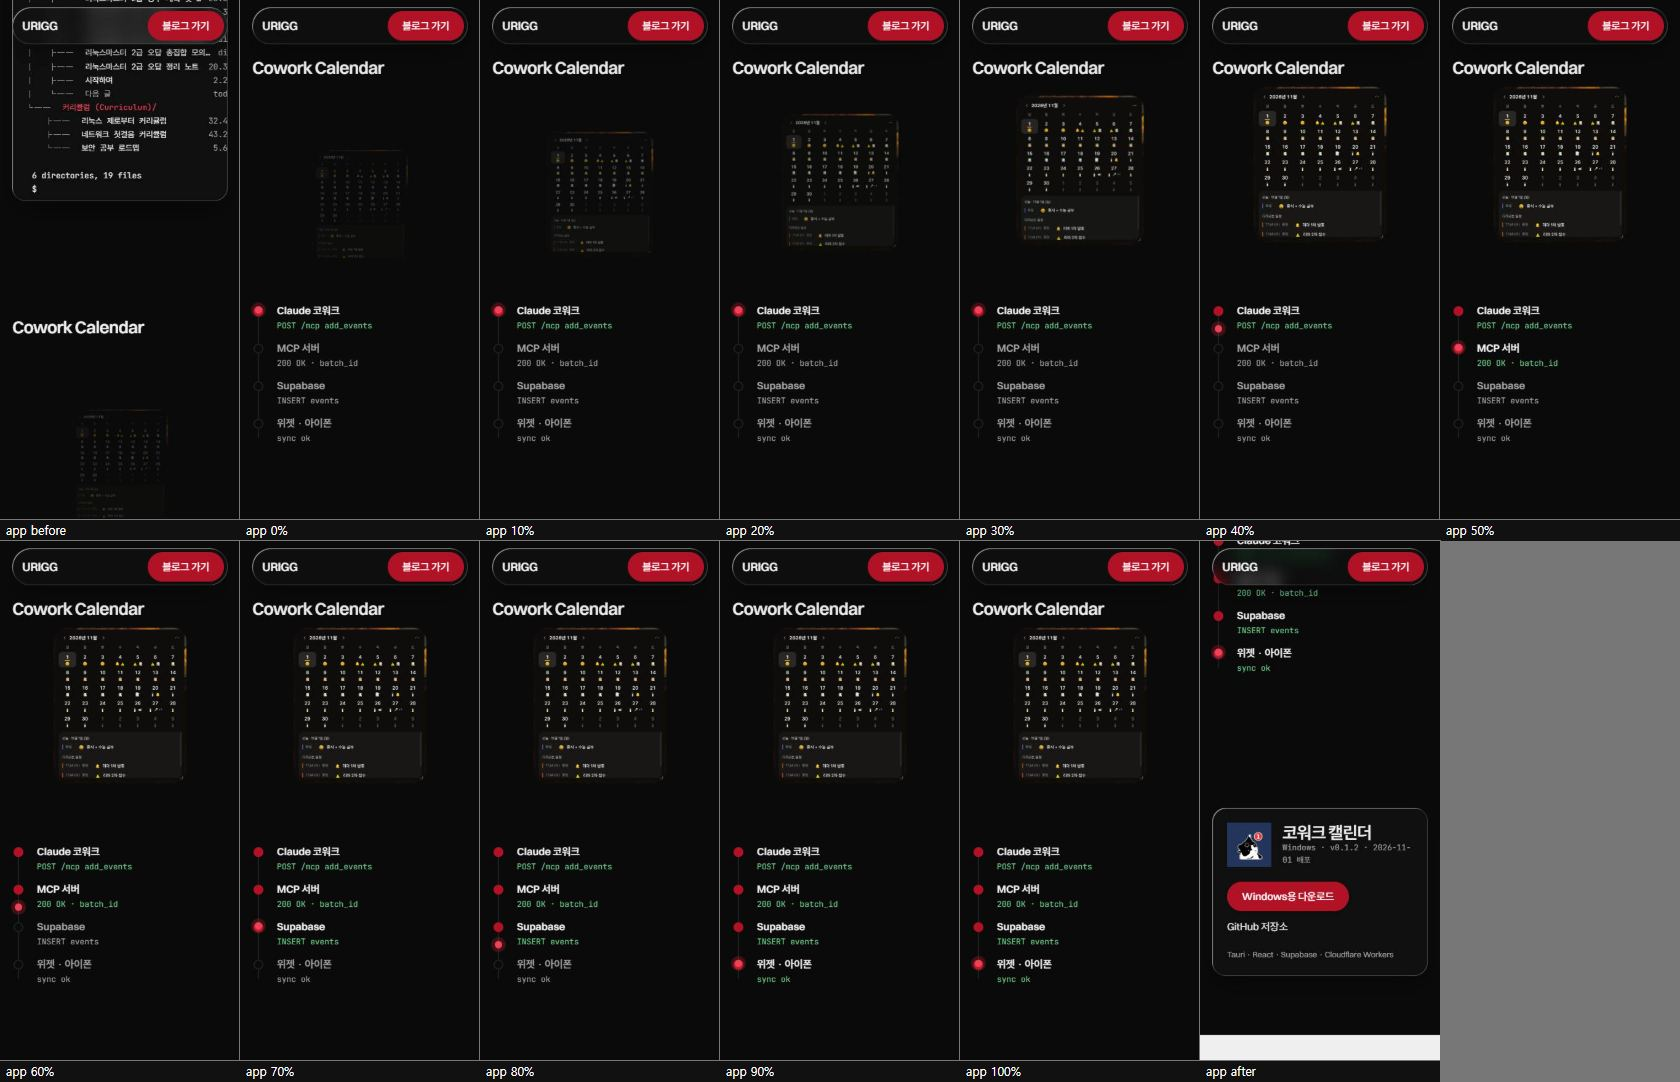
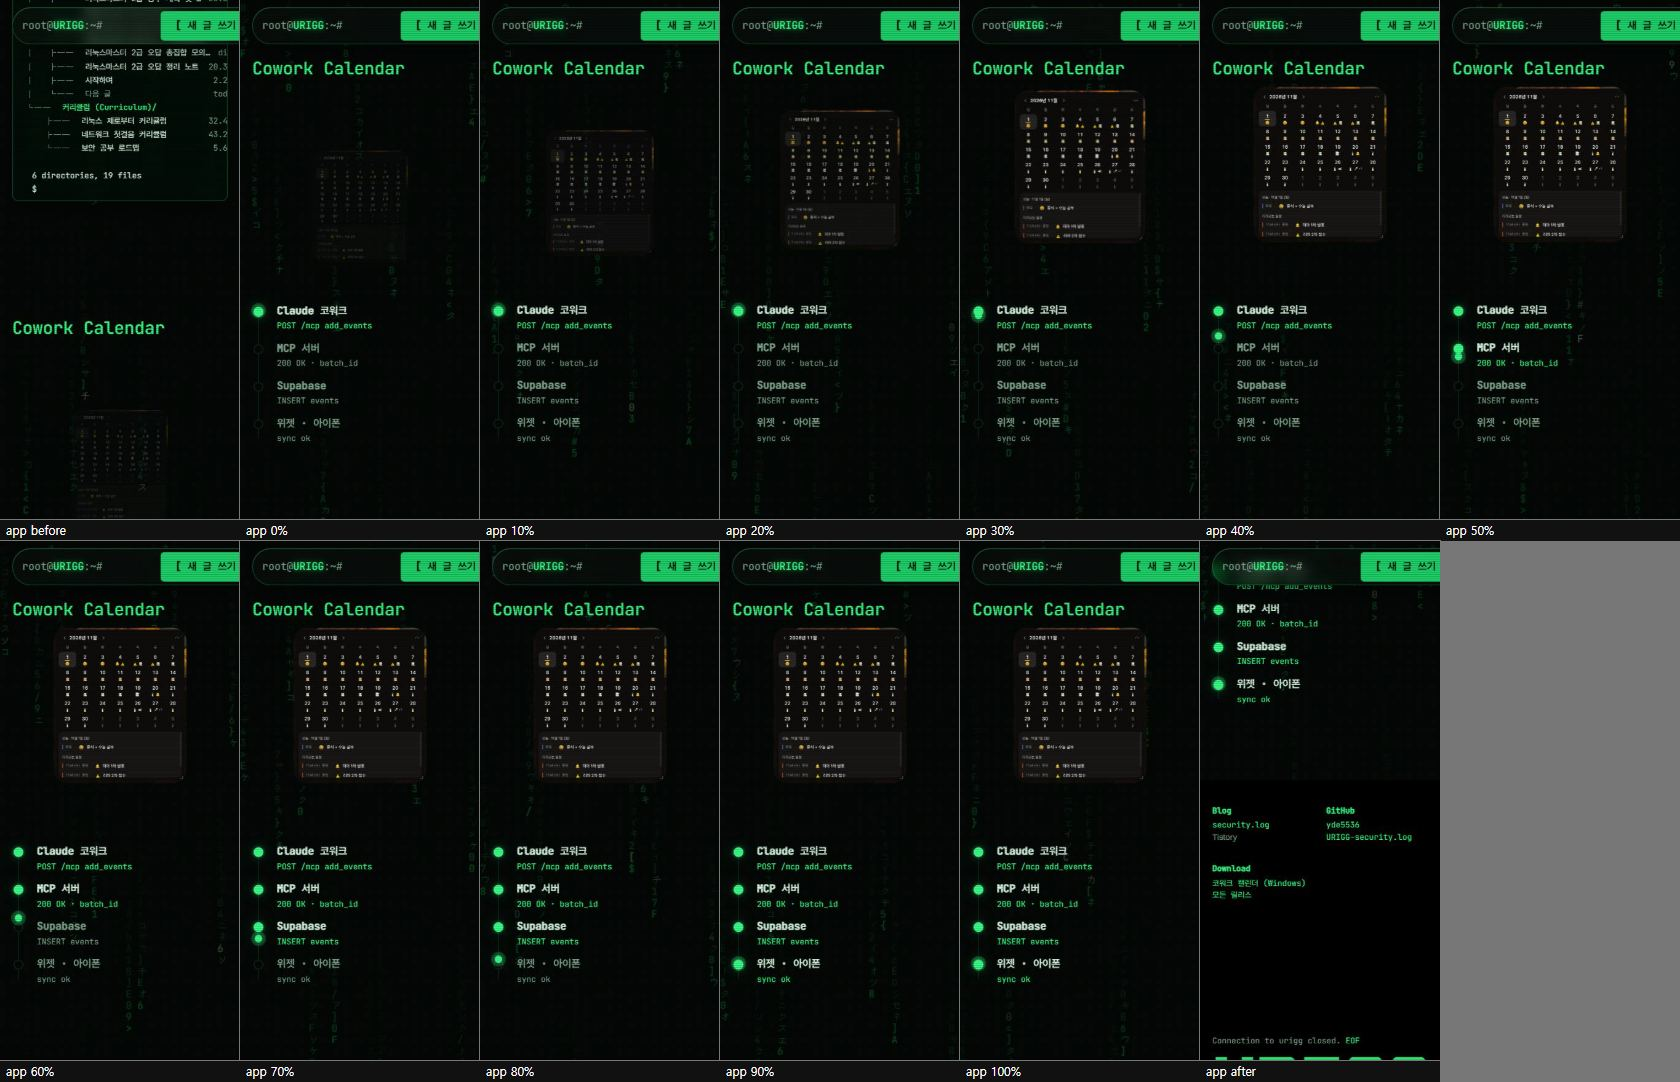
Add a hacker terminal theme
Green phosphor text with glow, a blinking cursor on the title, code rain
behind the page at 12 fps (paused when the tab is hidden), faint CRT
scan lines, terminal window bars on the tiles, bracketed buttons, a
prompt-style logo and a black terminal footer. Kept in its own
theme-hacker.css and rain.js so it can be switched off. README updated
for the hub layout and the theme files.

diff --git a/site/css/theme-hacker.css b/site/css/theme-hacker.css
@@ -1,0 +1,119 @@
+/* 해커 터미널 테마 — 초록 형광 글씨, CRT 주사선, 터미널 창 타일.
+   이 파일과 js/rain.js를 빼면 검정·크림슨 버전으로 돌아간다.
+   taste-skill-ignore: 사용자 요청 해커(터미널) 느낌 — 고정폭 글꼴, 빛번짐, 주사선은 의도한 것 */
+
+:root {
+  --bg: #030805;
+  --surface: #07120b;
+  --surface-2: #0d1f14;
+  --ink: #d6f5df;
+  --muted: #7fa58b;
+  --accent: #1fd16a;
+  --accent-press: #17a854;
+  --accent-ink: #021006;
+  --accent-text: #39ff88;
+  --ok: #39ff88;
+  --alert: #ff4d5e;
+  --mark-1: #1fd16a;   --mark-1-ink: #021006;
+  --mark-2: #d6f5df;   --mark-2-ink: #021006;
+  --mark-3: #24533a;   --mark-3-ink: #d6f5df;
+  --glow: 0 0 6px rgba(57, 255, 136, 0.55), 0 0 18px rgba(57, 255, 136, 0.25); /* taste-skill-ignore */
+  --glass-tint-strong: rgba(3, 14, 7, 0.62);
+  --glass-edge: inset 0 0 0 1px rgba(57, 255, 136, 0.28), inset 0 1px 0 rgba(160, 255, 200, 0.25); /* taste-skill-ignore */
+}
+
+body { background: var(--bg); }
+::selection { background: var(--accent-text); color: var(--accent-ink); }
+
+/* 매트릭스 코드 비 (rain.js가 그린다) */
+.rain { position: fixed; inset: 0; z-index: -2; width: 100%; height: 100%; opacity: 0.32; pointer-events: none; }
+
+/* CRT 주사선과 가장자리 어둠 */
+body::after {
+  content: ''; position: fixed; inset: 0; z-index: 60; pointer-events: none;
+  background: repeating-linear-gradient(0deg, rgba(0, 0, 0, 0.22) 0 1px, transparent 1px 3px); /* taste-skill-ignore */
+  mix-blend-mode: multiply;
+}
+
+/* 제목·라벨은 터미널 글꼴과 초록 빛번짐 */
+h1, h2, .top__mark, .btn, .tile__more, .dash__more, .repo__count, .route .hop b {
+  font-family: var(--mono); /* taste-skill-ignore */
+  letter-spacing: -0.01em;
+}
+.dash__title { color: var(--accent-text); text-shadow: var(--glow); font-weight: 500; letter-spacing: -0.04em; } /* taste-skill-ignore */
+.dash__title::after { content: '_'; animation: blink 1s steps(1) infinite; }
+h2 { color: var(--accent-text); font-weight: 500; }
+.tile__head h2::before { content: '> '; color: var(--muted); }
+.repo__count b, .stamp { text-shadow: var(--glow); } /* taste-skill-ignore */
+
+/* 상단 바: 프롬프트 모양 */
+/* 로고 글자 "URIGG"는 그대로 두고 앞에 프롬프트, 뒤에 깜빡이는 커서 */
+.top__mark { color: var(--accent-text); font-weight: 500; font-size: var(--step-body); text-shadow: var(--glow); } /* taste-skill-ignore */
+.top__mark::before { content: 'root@'; color: var(--muted); font-weight: 400; text-shadow: none; }
+.top__mark::after { content: ':~#'; color: var(--muted); font-weight: 400; text-shadow: none; }
+.top__nav a { font-family: var(--mono); font-size: var(--step-small); color: var(--muted); } /* taste-skill-ignore */
+.top__nav a:hover { color: var(--accent-text); }
+.top__nav a::before { content: './'; }
+
+/* 버튼: [ 대괄호 ] 터미널 버튼 */
+.btn { border-radius: 6px; background: var(--accent); color: var(--accent-ink); font-weight: 600; }
+.btn::before { content: '[ '; }
+.btn::after { content: ' ]'; }
+.btn:hover { background: var(--accent-text); box-shadow: var(--glow); } /* taste-skill-ignore */
+
+/* 타일 = 터미널 창 */
+.glass, .tile { border-radius: 10px; }
+.tile { padding-top: 46px; position: relative; }
+.tile::before {
+  content: '● ● ●  ' attr(data-file); position: absolute; left: 0; right: 0; top: 0; height: 30px;
+  padding: 0 14px; display: flex; align-items: center; font-family: var(--mono); font-size: 0.75rem; /* taste-skill-ignore */
+  color: var(--muted); background: rgba(57, 255, 136, 0.06); border-bottom: 1px solid rgba(57, 255, 136, 0.16);
+}
+
+/* 오늘 일정 */
+.stamp { color: var(--alert); }
+.is-clear .stamp { color: var(--ok); }
+.agenda__row span { color: var(--ink); }
+.rd::after { background: #123320; }
+.unlock input { background: #04140a; color: var(--accent-text); font-family: var(--mono); box-shadow: inset 0 0 0 1px rgba(57, 255, 136, 0.25); } /* taste-skill-ignore */
+.unlock input::placeholder { color: var(--muted); }
+
+/* 바로가기 */
+.alias__list code::before { content: '$ '; color: var(--muted); }
+.alias__list a:hover, .alias__list a:focus-visible { background: rgba(57, 255, 136, 0.1); }
+
+/* 진행도 · 로그 */
+.progress__cells { text-shadow: var(--glow); } /* taste-skill-ignore */
+.tail li:first-child { color: var(--accent-text); }
+.card__meta b { color: var(--accent-text); }
+.mark--1 { box-shadow: none; }
+
+/* 아래 장면들 */
+.term__row--dir { color: var(--accent-text); }
+.route__packet { background: var(--accent-text); box-shadow: 0 0 0 6px rgba(57, 255, 136, 0.22), var(--glow); } /* taste-skill-ignore */
+.hop.is-on::before { background: var(--accent-text); box-shadow: var(--glow); } /* taste-skill-ignore */
+.log__bar span { background: var(--accent-text); }
+
+/* 맺음: 흰 면 대신 검은 터미널 */
+.end { background: #000; color: var(--ink); }
+.end__cols p { color: var(--muted); }
+.end__cols p:first-child, .end__cols a { color: var(--accent-text); font-family: var(--mono); } /* taste-skill-ignore */
+.end__eof { color: var(--muted); }
+.end__eof span { color: var(--accent-text); }
+.end__word text { fill: var(--accent-text); fill-opacity: 0.9; font-family: var(--mono); } /* taste-skill-ignore */
+.end__legal { color: var(--muted); }
+
+@media (prefers-reduced-motion: reduce) {
+  .dash__title::after { animation: none; }
+}
+
+/* 휴대폰: 고정폭 글꼴은 넓으니 제목을 줄이고, 칸이 화면 밖으로 밀리지 않게 */
+.dash, .dash__grid > * { min-width: 0; }
+@media (max-width: 720px) {
+  .dash__title { font-size: 7.4vw; }
+  .dash .lens { width: 76px; left: 52%; top: -10px; }
+  .top .btn { padding: 0 16px; }
+  .top .btn::before, .top .btn::after { content: none; }
+  .tile--today .tile__head { flex-wrap: wrap; row-gap: 8px; }
+  .tile--today .stamp { margin-left: 0; }
+}

diff --git a/site/index.html b/site/index.html
@@ -8,7 +8,7 @@
   <meta property="og:title" content="URIGG — security.log">
   <meta property="og:description" content="Security, logged. 정보보안 공부 기록과 직접 만든 도구들.">
   <meta property="og:image" content="/images/logo-round-1400.png">
-  <meta name="theme-color" content="#0a0a0a">
+  <meta name="theme-color" content="#030805">
   <link rel="icon" type="image/png" sizes="32x32" href="/images/favicon-32.png">
   <link rel="icon" type="image/png" sizes="512x512" href="/images/favicon-512.png">
   <link rel="apple-touch-icon" href="/images/favicon-180.png">
@@ -23,12 +23,15 @@
   <link rel="stylesheet" href="css/base.css">
   <link rel="stylesheet" href="css/scenes.css">
   <link rel="stylesheet" href="css/theme-glass.css">
+  <link rel="stylesheet" href="css/theme-hacker.css">
   <script>document.documentElement.classList.add('js')</script>
   <script src="js/glass.js" defer></script>
   <script src="js/main.js" defer></script>
   <script src="js/scenes.js" defer></script>
+  <script src="js/rain.js" defer></script>
 </head>
 <body>
+  <canvas class="rain" aria-hidden="true"></canvas>
   <header class="top">
     <a class="top__mark" href="#top" aria-label="URIGG 처음으로">URIGG</a>
     <nav class="top__nav" aria-label="섹션">
@@ -56,7 +59,7 @@
 
       <div class="dash__grid">
         <!-- 오늘 일정: 접근 키를 넣으면 기밀이 해제되듯 드러난다 -->
-        <article class="tile tile--today glass glass--dark" aria-labelledby="today-title">
+        <article class="tile tile--today glass glass--dark" data-file="today.sh" aria-labelledby="today-title">
           <div class="tile__head">
             <h2 id="today-title">Today</h2>
             <p class="today__date" id="today-date"></p>
@@ -77,7 +80,7 @@
         </article>
 
         <!-- 최근 글 -->
-        <article class="tile tile--log glass glass--dark" aria-labelledby="latest-title">
+        <article class="tile tile--log glass glass--dark" data-file="security.log" aria-labelledby="latest-title">
           <div class="tile__head"><h2 id="latest-title">Log</h2><a class="link tile__more" href="#log">카드로 보기 ↓</a></div>
           <div class="term" aria-label="최신 글">
             <p class="term__prompt"><span class="term__user">urigg@security</span>:~$ tail -n 5 security.log<span class="caret" aria-hidden="true"></span></p>
@@ -86,7 +89,7 @@
         </article>
 
         <!-- 바로가기 -->
-        <nav class="tile tile--alias glass glass--dark" aria-labelledby="alias-title">
+        <nav class="tile tile--alias glass glass--dark" data-file="aliases" aria-labelledby="alias-title">
           <div class="tile__head"><h2 id="alias-title">Shortcuts</h2></div>
           <ul class="alias__list">
             <li><a href="https://urigg-security.tistory.com/manage/newpost" target="_blank" rel="noopener"><code>write</code><span>새 글 쓰기</span></a></li>
@@ -101,13 +104,13 @@
         </nav>
 
         <!-- 공부 진행도 -->
-        <article class="tile tile--progress glass glass--dark" aria-labelledby="progress-title">
+        <article class="tile tile--progress glass glass--dark" data-file="progress.md" aria-labelledby="progress-title">
           <div class="tile__head"><h2 id="progress-title">Progress</h2><a class="link tile__more" href="#repo">tree로 보기 ↓</a></div>
           <ul class="progress" id="progress" aria-label="시리즈별 진행도"></ul>
         </article>
 
         <!-- 캘린더 앱 -->
-        <article class="tile tile--app glass glass--dark" aria-labelledby="dash-app-title">
+        <article class="tile tile--app glass glass--dark" data-file="cowork-calendar.exe" aria-labelledby="dash-app-title">
           <div class="tile__head"><h2 id="dash-app-title">Calendar</h2><a class="link tile__more" href="#app">경로 보기 ↓</a></div>
           <div class="tile__app">
             <img src="images/calendar-icon.png" alt="" width="48" height="48">

diff --git a/site/js/rain.js b/site/js/rain.js
@@ -1,0 +1,42 @@
+// 배경의 초록 코드 비. 성능을 위해 초당 12장만 그리고, 탭이 숨겨지면 멈춘다.
+(() => {
+  const canvas = document.querySelector('.rain');
+  if (!canvas || matchMedia('(prefers-reduced-motion: reduce)').matches) return;
+  const ctx = canvas.getContext('2d', { alpha: false });
+  const CHARS = '01アイウエオカキクケコサシスセソタチツテトナニヌネノ0123456789ABCDEF<>/{}[]$#';
+  const SIZE = 16, FPS = 12;
+  let cols = [], last = 0, running = true;
+
+  const resize = () => {
+    canvas.width = innerWidth;
+    canvas.height = innerHeight;
+    cols = Array.from({ length: Math.ceil(innerWidth / SIZE) }, () => Math.random() * -40);
+    ctx.fillStyle = '#030805';
+    ctx.fillRect(0, 0, canvas.width, canvas.height);
+  };
+
+  const draw = (t) => {
+    if (!running) return;
+    requestAnimationFrame(draw);
+    if (t - last < 1000 / FPS) return;
+    last = t;
+    // 이전 글자를 조금씩 어둡게 덮어 꼬리를 만든다
+    ctx.fillStyle = 'rgba(3, 8, 5, 0.18)';
+    ctx.fillRect(0, 0, canvas.width, canvas.height);
+    ctx.font = `${SIZE - 2}px "JetBrains Mono", monospace`;
+    cols.forEach((y, i) => {
+      const ch = CHARS[(Math.random() * CHARS.length) | 0];
+      ctx.fillStyle = Math.random() < 0.06 ? '#c8ffdc' : '#1fd16a';
+      ctx.fillText(ch, i * SIZE, y * SIZE);
+      cols[i] = y * SIZE > canvas.height && Math.random() > 0.97 ? 0 : y + 1;
+    });
+  };
+
+  document.addEventListener('visibilitychange', () => {
+    running = !document.hidden;
+    if (running) requestAnimationFrame(draw);
+  });
+  addEventListener('resize', resize);
+  resize();
+  requestAnimationFrame(draw);
+})();

diff --git a/README.md b/README.md
@@ -1,26 +1,31 @@
 # URIGG — security.log
 
-URIGG의 개인 웹사이트. Cloudflare Pages(`*.pages.dev`)에 배포한다.
+URIGG의 개인 거점 사이트. 나를 소개하는 페이지가 아니라 내가 쓰는 대시보드다. Cloudflare Pages(`*.pages.dev`)에 배포한다.
 
-- 자기소개
+- 첫 화면 대시보드: 상태, 오늘 일정(접근 키), 최근 글, 바로가기, 공부 진행도, 캘린더 앱
+- 아래 스크롤 장면: 블로그 로그 카드, security.log `tree` 출력, 캘린더 패킷 경로
 - 블로그: 티스토리 [security.log](https://urigg-security.tistory.com/) RSS → `/api/blog`
 - 저장소: [URIGG-security.log](https://github.com/yde5536/URIGG-security.log) README 목차 → `/api/github`
-- 코워크 캘린더 소개와 최신 버전 다운로드
+- 일정: 코워크 캘린더 ICS 구독 주소 → `/api/today` (접근 키 필요)
 
 ## 구조
 
 ```
-site/                 정적 파일 (Pages 출력 폴더)
+site/                  정적 파일 (Pages 출력 폴더)
   index.html
-  css/base.css        기본 스타일 (taste-skill 방향)
-  css/theme-glass.css 리퀴드 글래스 테마
-  js/glass.js         유리 굴절 효과 (Chromium 전용)
-  js/main.js          데이터 불러오기, 책장/grep, 목차
-  data/*.json         API가 실패할 때 쓰는 예비 데이터
+  css/base.css         기본 스타일
+  css/scenes.css       대시보드와 스크롤 장면 배치
+  css/theme-glass.css  리퀴드 글래스 테마
+  css/theme-hacker.css 해커 터미널 테마 (초록 글씨, 주사선, 터미널 창)
+  js/main.js           데이터 불러오기, 대시보드, grep, tree
+  js/scenes.js         스크롤 장면 엔진
+  js/glass.js          유리 굴절 효과 (Chromium 전용)
+  js/rain.js           배경 코드 비
+  data/*.json          API가 실패할 때 쓰는 예비 데이터
   images/
-functions/api/        Cloudflare Pages Functions
-lib/                  RSS·GitHub 파싱 (함수와 스냅샷 스크립트가 같이 씀)
-scripts/snapshot.mjs  예비 데이터 갱신: npm run snapshot
+functions/api/         Cloudflare Pages Functions (blog, github, today)
+lib/                   RSS·GitHub·ICS 파싱
+scripts/snapshot.mjs   예비 데이터 갱신: npm run snapshot
 ```
 
 ## 로컬 실행
@@ -29,18 +34,31 @@ scripts/snapshot.mjs  예비 데이터 갱신: npm run snapshot
 npm run dev     # http://127.0.0.1:8788 (wrangler로 함수까지 실행)
 ```
 
+일정까지 확인하려면 프로젝트 폴더에 `.dev.vars`(git에 올라가지 않음)를 만든다.
+
+```
+ICS_URL=https://.../ics/<토큰>.ics
+SITE_KEY=<접근 키>
+```
+
 ## Cloudflare Pages 설정
 
 - Build command: 비움
 - Build output directory: `site`
-- (선택) 환경 변수 `GITHUB_TOKEN`: GitHub API 한도를 늘릴 때만
+- 비밀 변수 `ICS_URL`, `SITE_KEY`: 오늘 일정 (Production과 Preview 둘 다)
+- (선택) `GITHUB_TOKEN`: GitHub API 한도를 늘릴 때만
 
-## 리퀴드 글래스 → taste-skill 기본 스타일로 바꾸기
+## 테마 끄기
 
-`site/index.html`에서 아래 두 줄을 지우면 된다. 나머지는 그대로 동작한다.
+`site/index.html`에서 해당 줄을 지우면 그 효과만 빠진다.
 
 ```html
-<link rel="stylesheet" href="css/theme-glass.css">
-<script src="js/glass.js" defer></script>
+<link rel="stylesheet" href="css/theme-hacker.css">   <!-- 해커 터미널 -->
+<script src="js/rain.js" defer></script>               <!-- 코드 비 -->
+<link rel="stylesheet" href="css/theme-glass.css">    <!-- 리퀴드 글래스 -->
+<script src="js/glass.js" defer></script>              <!-- 유리 굴절 -->
 ```
 
+## 백업
+
+리퀴드 글래스 첫 버전은 태그 `v1-liquid-glass`에 있다.
